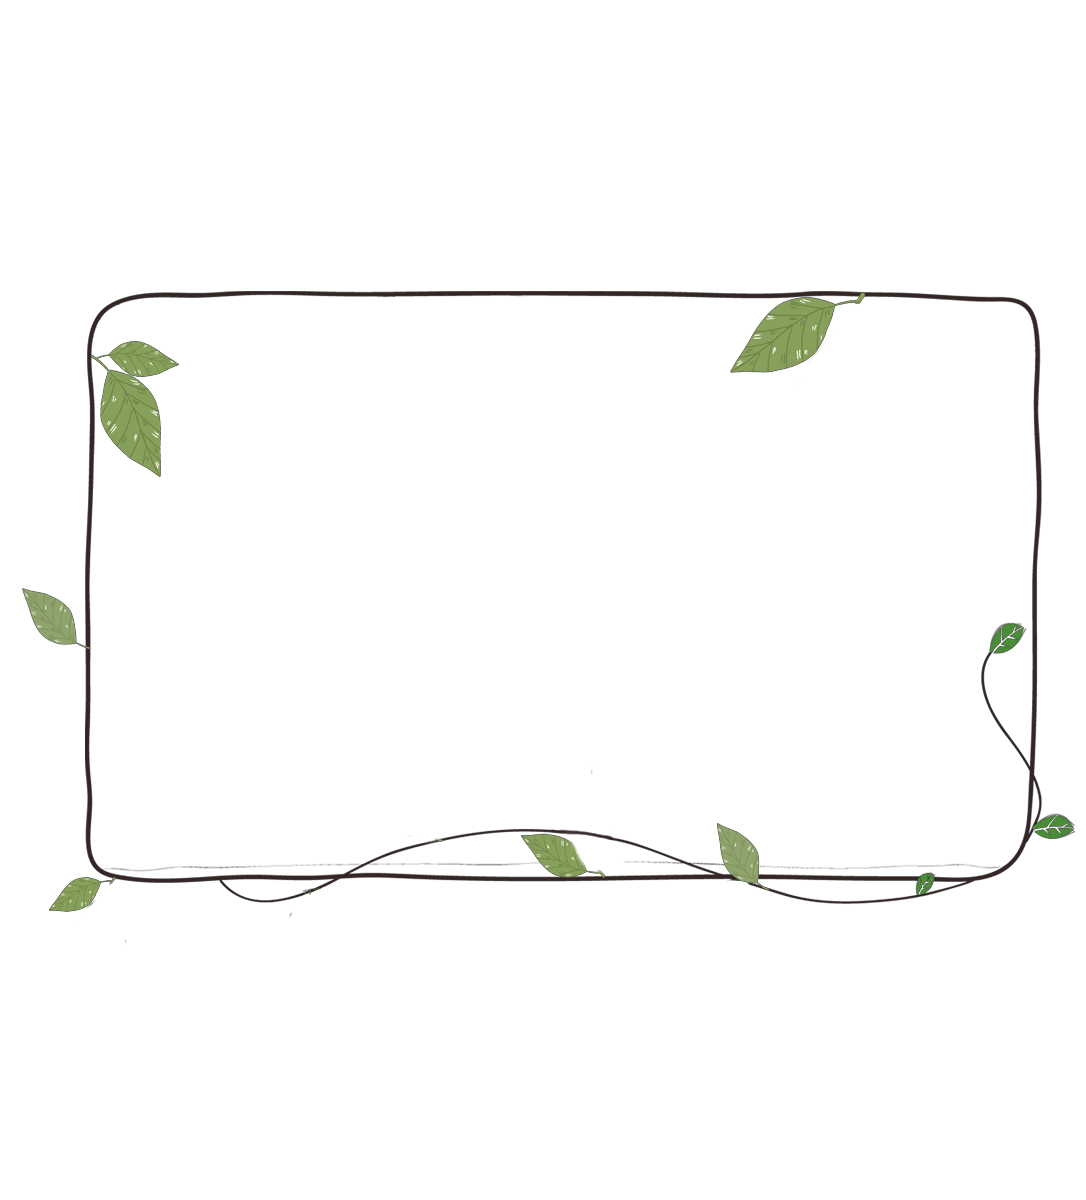
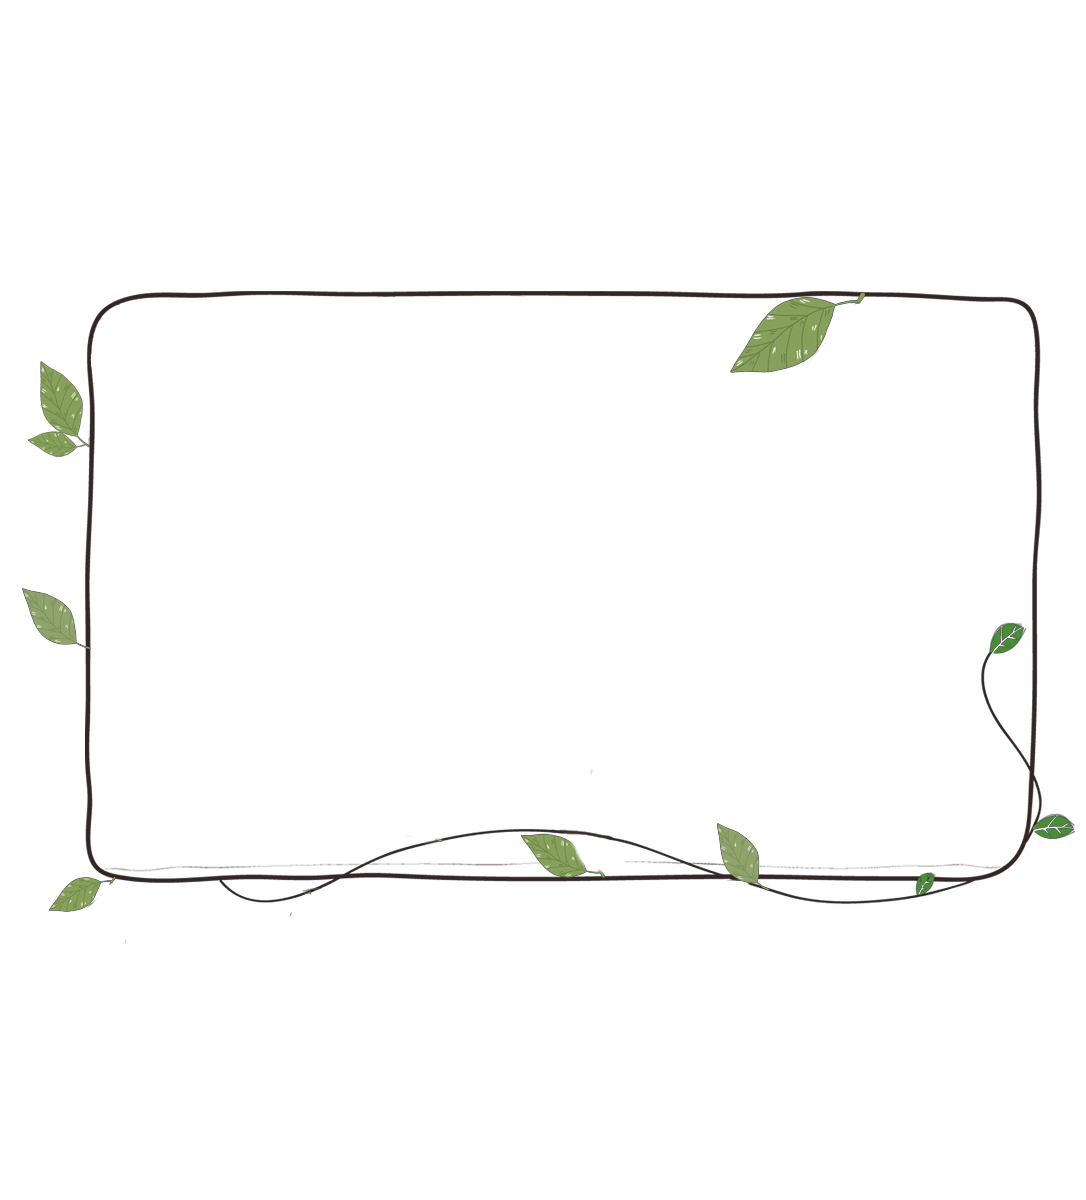
flip img in frame and edit background image on css

Changed region(s): [[0.0304, 0.2775, 0.1823, 0.4008]]

diff --git a/style.css b/style.css
@@ -137,7 +137,7 @@ h6 {
   display: flex;
   padding: 0 2rem;
   justify-content: space-around;
-  gap: 2rem;
+  /* gap: 2rem; */
   text-align: center;
 }
 
@@ -196,7 +196,7 @@ h6 {
 
 .gallery .photo {
   display: flex;
-  justify-content: space-around;
+  justify-content: space-evenly;
   flex-wrap: wrap;
   gap: 15px;
 }
@@ -237,6 +237,7 @@ h6 {
   background-position: center;
   background-size: 90% 195%;
   background-repeat: no-repeat;
+  background-position-x: 20%;
   margin: 4rem auto 0;
   max-width: 80%;
   text-align: center;
@@ -256,7 +257,8 @@ h6 {
   gap: 15px;
 }
 .info .main-sch h1 {
-  padding-bottom: 2rem;
+  padding: 0 2.5rem 2rem;
+  /* padding-bottom: 2rem; */
   font-size: 3rem;
 }
 
@@ -372,6 +374,7 @@ h6 {
   background-position: center;
   background-size: 90% 150%;
   background-repeat: no-repeat;
+  background-position-x: 20%;
   max-width: 100%;
   margin: 10px auto;
   padding: 5rem 10px 5rem;
@@ -393,6 +396,12 @@ h6 {
   border-radius: 5px;
   background-color: var(--white);
   color: var(--bg);
+}
+
+hr {
+  position: relative;
+  left: 25%;
+  width: 50%;
 }
 /* END MAIN LIVE STREAMING  */
 
@@ -452,19 +461,19 @@ h6 {
 
   .main-cp .couple .heart .fa-beat {
     font-size: 3.5rem;
-    position: absolute;
-    left: -1.1rem;
-    top: 90px;
+    position: relative;
+    top: 8rem;
+    left: 0.2rem;
   }
 
   .sticky-top {
     overflow: hidden;
   }
 
-  .navbar .offcanvas-body .nav-item a:hover {
-    padding: 1rem 0;
-    transition: 0.4s;
-  }
+  /* .navbar .offcanvas-body .nav-item a:hover {
+    /* padding: 1rem 0; */
+  /* transition: 0.4s; */
+  /* }  */
 }
 /* MOBILE PHONE  */
 @media screen and (max-width: 576px) {
@@ -484,6 +493,7 @@ h6 {
   }
   .main-cp .couple {
     flex-direction: column;
+    gap: 5px;
     align-items: center;
   }
 
